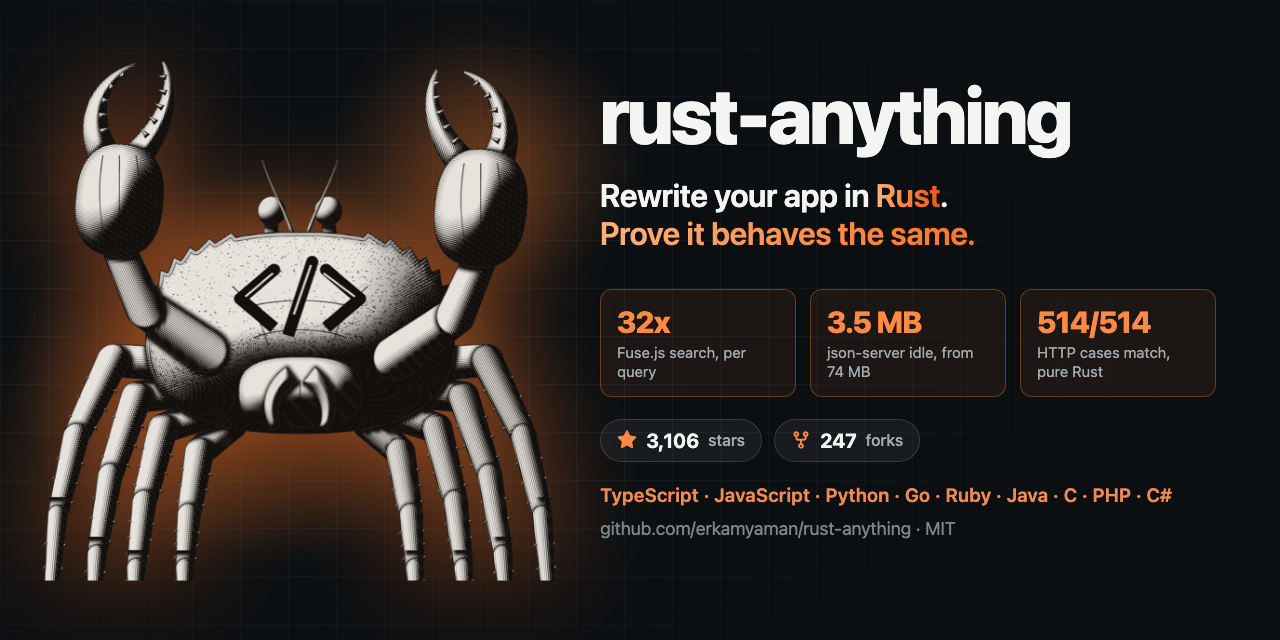
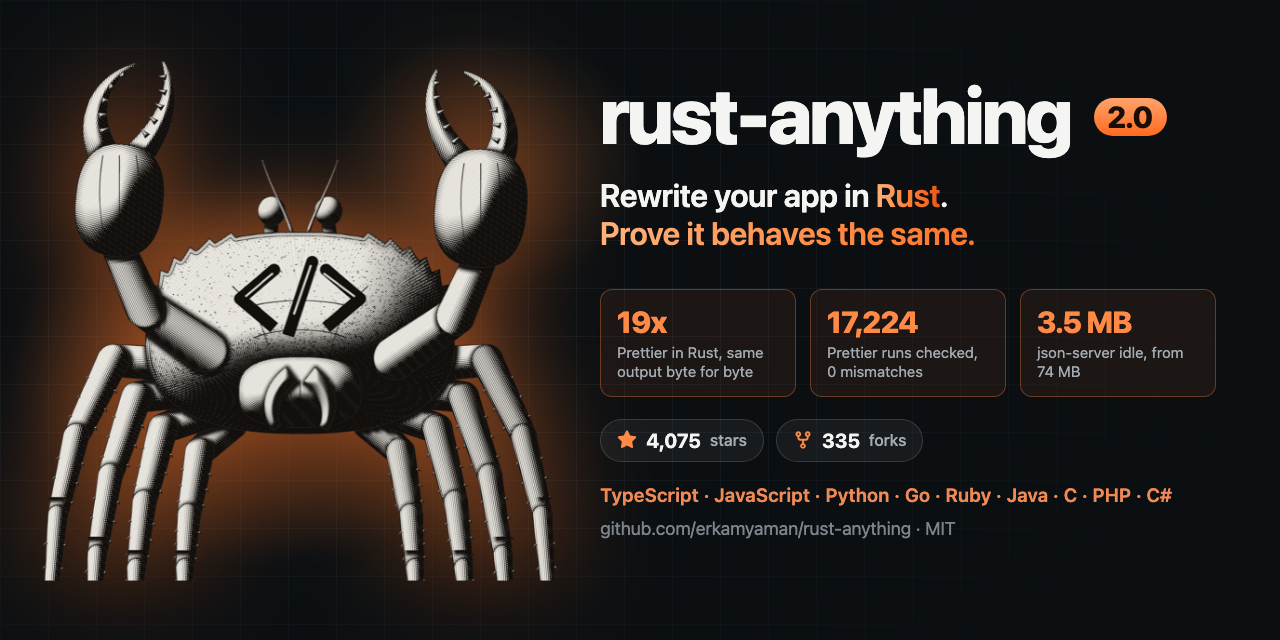
PHP and C# without the preview label; 2.0 social preview
The README, docs and skill call PHP and C# supported for whole apps;
STATUS keeps that units cannot be bridged yet. The preview image shows
Prettier in Rust and the live star count.

diff --git a/docs/assets/social.html b/docs/assets/social.html
@@ -43,6 +43,8 @@
   .stat b { display: block; font-size: 30px; font-weight: 800; letter-spacing: -0.8px; color: #ff8a45; }
   .stat small { display: block; margin-top: 4px; font-size: 15px; line-height: 1.3; color: #a3acb2; }
   .rust { color: #ff7a2f; }
+  .ver { display: inline-block; vertical-align: middle; margin-left: 10px; padding: 4px 14px; border-radius: 999px;
+         font-size: 30px; letter-spacing: -0.5px; color: #1a0d05; background: linear-gradient(180deg, #ffa36a, #ff6a1f); position: relative; top: -6px; }
   .gh { display: flex; gap: 12px; margin-top: 22px; }
   .pill { display: inline-flex; align-items: center; gap: 9px; padding: 9px 16px; border-radius: 999px;
           background: rgb(255 255 255 / 0.05); border: 1px solid rgb(255 255 255 / 0.14); font-size: 20px; font-weight: 700; }
@@ -56,12 +58,12 @@
   <div class="glow"></div>
   <img class="crab" src="crab.png" alt="">
   <div class="text">
-    <h1>rust-anything</h1>
+    <h1>rust-anything <span class="ver">2.0</span></h1>
     <p class="tag">Rewrite your app in <span class="rust" style="display:inline">Rust</span>.<span>Prove it behaves the same.</span></p>
     <div class="stats">
-      <div class="stat"><b>32x</b><small>Fuse.js search, per query</small></div>
+      <div class="stat"><b>19x</b><small>Prettier in Rust, same output byte for byte</small></div>
+      <div class="stat"><b>17,224</b><small>Prettier runs checked, 0 mismatches</small></div>
       <div class="stat"><b>3.5 MB</b><small>json-server idle, from 74 MB</small></div>
-      <div class="stat"><b>514/514</b><small>HTTP cases match, pure Rust</small></div>
     </div>
     <div class="gh">
       <span class="pill"><svg viewBox="0 0 16 16"><path d="M8 .25a.75.75 0 0 1 .673.418l1.882 3.815 4.21.612a.75.75 0 0 1 .416 1.279l-3.046 2.97.719 4.192a.751.751 0 0 1-1.088.791L8 12.347l-3.766 1.98a.75.75 0 0 1-1.088-.79l.72-4.194L.818 6.374a.75.75 0 0 1 .416-1.28l4.21-.611L7.327.668A.75.75 0 0 1 8 .25Z"/></svg>{{stars}} <small>stars</small></span>

diff --git a/README.md b/README.md
@@ -14,12 +14,12 @@
 
 <p align="center"><b>New in 2.0: <a href="docs/real-world.md#prettier">Prettier, ported to Rust</a>. 19x faster, the same output byte for byte.</b></p>
 
-<p align="center">Node.js and TypeScript · Python · C · Go · Ruby · Java · PHP and C# in preview</p>
+<p align="center">Node.js and TypeScript · Python · C · Go · Ruby · Java · PHP · C#</p>
 
 <p align="center">
   <a href="https://crates.io/crates/rust-anything"><img src="https://img.shields.io/crates/v/rust-anything?color=E2862A&label=crates.io" alt="crates.io version"></a>
   <a href="https://www.npmjs.com/package/rust-anything"><img src="https://img.shields.io/npm/v/rust-anything?color=E2862A&label=npm" alt="npm version"></a>
-  <img src="https://img.shields.io/badge/languages-6%20%2B%202%20preview-E2862A" alt="6 languages, plus 2 in preview">
+  <img src="https://img.shields.io/badge/languages-8-E2862A" alt="8 languages">
   <a href="#works-with"><img src="https://img.shields.io/badge/works%20with-5%20agents-E2862A" alt="Works with 5 agents"></a>
   <a href="https://github.com/erkamyaman/rust-anything/actions/workflows/ci.yml"><img src="https://img.shields.io/github/actions/workflow/status/erkamyaman/rust-anything/ci.yml?branch=main&label=tests" alt="Tests"></a>
   <a href="LICENSE"><img src="https://img.shields.io/badge/license-MIT-E2862A" alt="MIT license"></a>
@@ -191,8 +191,8 @@ done.
 | Go | package | typed cgo calls and a generated binary wire, in a package with the original API | a generated Go driver, built as its own module |
 | Ruby | file or folder of module functions | a magnus extension under the original modules | a generated Ruby driver |
 | Java | package of `public static` methods | typed JNI and a generated binary wire, in wrapper classes with the original methods | a generated reflection driver |
-| PHP (preview) | folder of functions and `public static` methods | coming next: PHP FFI over a C ABI | whole apps today: `app record`, `app replay` and the front door, for CLIs and servers (`php -S`) |
-| C# (preview) | folder of `public static` methods | coming next: P/Invoke over a C ABI | whole apps today: `app record`, `app replay` and the front door, for CLIs and ASP.NET servers (`dotnet <app>.dll`) |
+| PHP | folder of functions and `public static` methods | coming next: PHP FFI over a C ABI | whole apps today: `app record`, `app replay` and the front door, for CLIs and servers (`php -S`) |
+| C# | folder of `public static` methods | coming next: P/Invoke over a C ABI | whole apps today: `app record`, `app replay` and the front door, for CLIs and ASP.NET servers (`dotnet <app>.dll`) |
 
 Every language except C also gets batch classes (`--batch`): the items cross once and stay in
 Rust, and each call runs over all of them on all cores.
@@ -203,12 +203,12 @@ The language is detected from the repository (`go.mod`, `pom.xml`, a `.csproj` o
 signatures, Ruby YARD tags, PHP types and phpdoc; untyped parameters used as numbers are inferred
 as numbers.
 
-PHP is in preview: `analyze` plans a PHP app (Composer packages and PSR-4 autoloading, risks
+For PHP, `analyze` plans a PHP app (Composer packages and PSR-4 autoloading, risks
 such as loose comparison and integer overflow into floats, Composer packages mapped to crates),
 and a PHP CLI or server can be recorded, replayed and put behind a Rust front door. Porting its
 units into Rust through PHP's FFI is the next step ([issue #2](https://github.com/erkamyaman/rust-anything/issues/2)).
 
-C# is in preview the same way: `analyze` reads `.csproj` projects and their NuGet packages
+C# works the same way: `analyze` reads `.csproj` projects and their NuGet packages
 (mapped to crates), resolves `using` directives to folders, and flags what C# does differently
 (`decimal`, `dynamic`, LINQ's deferred queries, `Task`, `lock`, reflection). A C# CLI or ASP.NET
 server can be recorded, replayed and put behind a Rust front door; porting units through P/Invoke

diff --git a/docs/STATUS.md b/docs/STATUS.md
@@ -4,7 +4,8 @@ What works, and how each part was last checked. Updated 2026-11-18.
 
 **Verified**: run end to end (bridge, record, port, diff, gate) on real code someone else wrote,
 named below. **Tested**: covered by this repository's tests on fixtures written for them, not yet
-run on a real project. **Preview**: works for part of the flow, as described.
+run on a real project. **Whole apps**: `analyze` and the whole-app flow (`app record`, `app replay`,
+front door); units cannot be bridged yet.
 
 ## Porting units
 
@@ -16,8 +17,8 @@ run on a real project. **Preview**: works for part of the flow, as described.
 | Ruby | Verified | `shellwords.rb` from Ruby 3.3 (2026-11-16) | 1,617/1,617; gate passes |
 | Java | Verified | JDK 21 behind a facade (2026-11-16) | 4,492/4,492; gate passes |
 | C | Verified | glibc behind a facade (2026-11-16) | 1,859/1,859 after dropping one undefined-behavior case; gate passes |
-| PHP | Preview | none | `analyze` and whole apps only; units cannot be bridged yet |
-| C# | Preview | none | `analyze` and whole apps only; units cannot be bridged yet |
+| PHP | Whole apps | none | `analyze` and whole apps only; units cannot be bridged yet |
+| C# | Whole apps | none | `analyze` and whole apps only; units cannot be bridged yet |
 
 Details of every run: [real-world.md](real-world.md) (TS/JS) and
 [real-world-languages.md](real-world-languages.md) (the others).

diff --git a/docs/README_UG.md b/docs/README_UG.md
@@ -21,7 +21,7 @@
 <p align="center">
   <a href="https://crates.io/crates/rust-anything"><img src="https://img.shields.io/crates/v/rust-anything?color=E2862A&label=crates.io" alt="crates.io نەشرى"></a>
   <a href="https://www.npmjs.com/package/rust-anything"><img src="https://img.shields.io/npm/v/rust-anything?color=E2862A&label=npm" alt="npm نەشرى"></a>
-  <img src="https://img.shields.io/badge/languages-6%20%2B%202%20preview-E2862A" alt="6 تىل، قوشۇمچە 2 سى سىناق نۇسخىسىدا">
+  <img src="https://img.shields.io/badge/languages-8-E2862A" alt="6 تىل، قوشۇمچە 2 سى سىناق نۇسخىسىدا">
   <a href="#ماس-كېلىدىغان-ئاگېنتلار"><img src="https://img.shields.io/badge/works%20with-4%20agents-E2862A" alt="4 ئاگېنت بىلەن ئىشلەيدۇ"></a>
   <a href="https://github.com/erkamyaman/rust-anything/actions/workflows/ci.yml"><img src="https://img.shields.io/github/actions/workflow/status/erkamyaman/rust-anything/ci.yml?branch=main&label=tests" alt="سىناقلار"></a>
   <a href="../LICENSE"><img src="https://img.shields.io/badge/license-MIT-E2862A" alt="MIT ئىجازەتنامىسى"></a>

diff --git a/docs/README_TT.md b/docs/README_TT.md
@@ -19,7 +19,7 @@
 <p align="center">
   <a href="https://crates.io/crates/rust-anything"><img src="https://img.shields.io/crates/v/rust-anything?color=E2862A&label=crates.io" alt="crates.io версиясе"></a>
   <a href="https://www.npmjs.com/package/rust-anything"><img src="https://img.shields.io/npm/v/rust-anything?color=E2862A&label=npm" alt="npm версиясе"></a>
-  <img src="https://img.shields.io/badge/languages-6%20%2B%202%20preview-E2862A" alt="6 тел, өстәвенә 2 тел preview рәвешендә">
+  <img src="https://img.shields.io/badge/languages-8-E2862A" alt="6 тел, өстәвенә 2 тел preview рәвешендә">
   <a href="#кайсы-агентлар-белән-эшли"><img src="https://img.shields.io/badge/works%20with-4%20agents-E2862A" alt="4 агент белән эшли"></a>
   <a href="https://github.com/erkamyaman/rust-anything/actions/workflows/ci.yml"><img src="https://img.shields.io/github/actions/workflow/status/erkamyaman/rust-anything/ci.yml?branch=main&label=tests" alt="Тестлар"></a>
   <a href="../LICENSE"><img src="https://img.shields.io/badge/license-MIT-E2862A" alt="MIT лицензиясе"></a>

diff --git a/skills/rust-anything/SKILL.md b/skills/rust-anything/SKILL.md
@@ -17,10 +17,10 @@ binary (or, for a library, one pure Rust crate). CLIs, HTTP servers and librarie
 Languages: TypeScript/JavaScript, Python, C, Go, Ruby, Java. The language is detected; `--lang`
 overrides it. The steps are the same everywhere; only the bridge differs (napi-rs or wasm for
 TS, PyO3, a C ABI, cgo, a magnus extension, JNI), and the original's callers keep their API.
-PHP is in preview: `analyze`, and for a whole app `app record`, `app replay` and
+For PHP: `analyze`, and for a whole app `app record`, `app replay` and
 `app front-door` (CLIs, and servers run with `php -S 127.0.0.1:{port} router.php`); `bridge` does not
-take PHP units yet, so tell the user before planning a PHP port past the front door. C# is in
-preview the same way: record a built app (`dotnet out/app.dll`, servers with
+take PHP units yet, so tell the user before planning a PHP port past the front door. C# works
+the same way: record a built app (`dotnet out/app.dll`, servers with
 `--urls http://127.0.0.1:{port}`); `bridge` does not take C# units yet.
 
 Tools: the `rust-anything` CLI, or the same steps as MCP tools (`rust-anything mcp`): `profile`,

diff --git a/docs/README_KK.md b/docs/README_KK.md
@@ -19,7 +19,7 @@
 <p align="center">
   <a href="https://crates.io/crates/rust-anything"><img src="https://img.shields.io/crates/v/rust-anything?color=E2862A&label=crates.io" alt="crates.io нұсқасы"></a>
   <a href="https://www.npmjs.com/package/rust-anything"><img src="https://img.shields.io/npm/v/rust-anything?color=E2862A&label=npm" alt="npm нұсқасы"></a>
-  <img src="https://img.shields.io/badge/languages-6%20%2B%202%20preview-E2862A" alt="6 тіл, тағы 2 preview күйінде">
+  <img src="https://img.shields.io/badge/languages-8-E2862A" alt="6 тіл, тағы 2 preview күйінде">
   <a href="#үйлесімді-агенттер"><img src="https://img.shields.io/badge/works%20with-4%20agents-E2862A" alt="4 агентпен жұмыс істейді"></a>
   <a href="https://github.com/erkamyaman/rust-anything/actions/workflows/ci.yml"><img src="https://img.shields.io/github/actions/workflow/status/erkamyaman/rust-anything/ci.yml?branch=main&label=tests" alt="Тесттер"></a>
   <a href="../LICENSE"><img src="https://img.shields.io/badge/license-MIT-E2862A" alt="MIT лицензиясы"></a>

diff --git a/docs/README_JA.md b/docs/README_JA.md
@@ -19,7 +19,7 @@
 <p align="center">
   <a href="https://crates.io/crates/rust-anything"><img src="https://img.shields.io/crates/v/rust-anything?color=E2862A&label=crates.io" alt="crates.io バージョン"></a>
   <a href="https://www.npmjs.com/package/rust-anything"><img src="https://img.shields.io/npm/v/rust-anything?color=E2862A&label=npm" alt="npm バージョン"></a>
-  <img src="https://img.shields.io/badge/languages-6%20%2B%202%20preview-E2862A" alt="6 言語対応、さらに 2 言語がプレビュー版">
+  <img src="https://img.shields.io/badge/languages-8-E2862A" alt="6 言語対応、さらに 2 言語がプレビュー版">
   <a href="#対応エージェント"><img src="https://img.shields.io/badge/works%20with-4%20agents-E2862A" alt="4 つのエージェントに対応"></a>
   <a href="https://github.com/erkamyaman/rust-anything/actions/workflows/ci.yml"><img src="https://img.shields.io/github/actions/workflow/status/erkamyaman/rust-anything/ci.yml?branch=main&label=tests" alt="テスト"></a>
   <a href="../LICENSE"><img src="https://img.shields.io/badge/license-MIT-E2862A" alt="MIT ライセンス"></a>

diff --git a/docs/README_KY.md b/docs/README_KY.md
@@ -19,7 +19,7 @@
 <p align="center">
   <a href="https://crates.io/crates/rust-anything"><img src="https://img.shields.io/crates/v/rust-anything?color=E2862A&label=crates.io" alt="crates.io версиясы"></a>
   <a href="https://www.npmjs.com/package/rust-anything"><img src="https://img.shields.io/npm/v/rust-anything?color=E2862A&label=npm" alt="npm версиясы"></a>
-  <img src="https://img.shields.io/badge/languages-6%20%2B%202%20preview-E2862A" alt="6 тил, дагы 2 preview абалында">
+  <img src="https://img.shields.io/badge/languages-8-E2862A" alt="6 тил, дагы 2 preview абалында">
   <a href="#шайкеш-агенттер"><img src="https://img.shields.io/badge/works%20with-4%20agents-E2862A" alt="4 агент менен иштейт"></a>
   <a href="https://github.com/erkamyaman/rust-anything/actions/workflows/ci.yml"><img src="https://img.shields.io/github/actions/workflow/status/erkamyaman/rust-anything/ci.yml?branch=main&label=tests" alt="Тесттер"></a>
   <a href="../LICENSE"><img src="https://img.shields.io/badge/license-MIT-E2862A" alt="MIT лицензиясы"></a>

diff --git a/docs/README_RU.md b/docs/README_RU.md
@@ -19,7 +19,7 @@
 <p align="center">
   <a href="https://crates.io/crates/rust-anything"><img src="https://img.shields.io/crates/v/rust-anything?color=E2862A&label=crates.io" alt="Версия на crates.io"></a>
   <a href="https://www.npmjs.com/package/rust-anything"><img src="https://img.shields.io/npm/v/rust-anything?color=E2862A&label=npm" alt="Версия в npm"></a>
-  <img src="https://img.shields.io/badge/languages-6%20%2B%202%20preview-E2862A" alt="6 языков и ещё 2 в превью">
+  <img src="https://img.shields.io/badge/languages-8-E2862A" alt="6 языков и ещё 2 в превью">
   <a href="#поддерживаемые-агенты"><img src="https://img.shields.io/badge/works%20with-4%20agents-E2862A" alt="Работает с 4 агентами"></a>
   <a href="https://github.com/erkamyaman/rust-anything/actions/workflows/ci.yml"><img src="https://img.shields.io/github/actions/workflow/status/erkamyaman/rust-anything/ci.yml?branch=main&label=tests" alt="Тесты"></a>
   <a href="../LICENSE"><img src="https://img.shields.io/badge/license-MIT-E2862A" alt="Лицензия MIT"></a>

diff --git a/docs/README_TK.md b/docs/README_TK.md
@@ -19,7 +19,7 @@
 <p align="center">
   <a href="https://crates.io/crates/rust-anything"><img src="https://img.shields.io/crates/v/rust-anything?color=E2862A&label=crates.io" alt="crates.io wersiýasy"></a>
   <a href="https://www.npmjs.com/package/rust-anything"><img src="https://img.shields.io/npm/v/rust-anything?color=E2862A&label=npm" alt="npm wersiýasy"></a>
-  <img src="https://img.shields.io/badge/languages-6%20%2B%202%20preview-E2862A" alt="6 dil, üstesine 2 dil preview ýagdaýynda">
+  <img src="https://img.shields.io/badge/languages-8-E2862A" alt="6 dil, üstesine 2 dil preview ýagdaýynda">
   <a href="#haýsy-agentler-bilen-işleýär"><img src="https://img.shields.io/badge/works%20with-4%20agents-E2862A" alt="4 agent bilen işleýär"></a>
   <a href="https://github.com/erkamyaman/rust-anything/actions/workflows/ci.yml"><img src="https://img.shields.io/github/actions/workflow/status/erkamyaman/rust-anything/ci.yml?branch=main&label=tests" alt="Testler"></a>
   <a href="../LICENSE"><img src="https://img.shields.io/badge/license-MIT-E2862A" alt="MIT ygtyýarnamasy"></a>

diff --git a/docs/README_VI.md b/docs/README_VI.md
@@ -19,7 +19,7 @@
 <p align="center">
   <a href="https://crates.io/crates/rust-anything"><img src="https://img.shields.io/crates/v/rust-anything?color=E2862A&label=crates.io" alt="phiên bản crates.io"></a>
   <a href="https://www.npmjs.com/package/rust-anything"><img src="https://img.shields.io/npm/v/rust-anything?color=E2862A&label=npm" alt="phiên bản npm"></a>
-  <img src="https://img.shields.io/badge/languages-6%20%2B%202%20preview-E2862A" alt="6 ngôn ngữ chính và 2 ngôn ngữ preview">
+  <img src="https://img.shields.io/badge/languages-8-E2862A" alt="6 ngôn ngữ chính và 2 ngôn ngữ preview">
   <a href="#works-with"><img src="https://img.shields.io/badge/works%20with-4%20agents-E2862A" alt="Hỗ trợ 4 agent"></a>
   <a href="https://github.com/erkamyaman/rust-anything/actions/workflows/ci.yml"><img src="https://img.shields.io/github/actions/workflow/status/erkamyaman/rust-anything/ci.yml?branch=main&label=tests" alt="Các bài kiểm tra"></a>
   <a href="../LICENSE"><img src="https://img.shields.io/badge/license-MIT-E2862A" alt="giấy phép MIT"></a>
